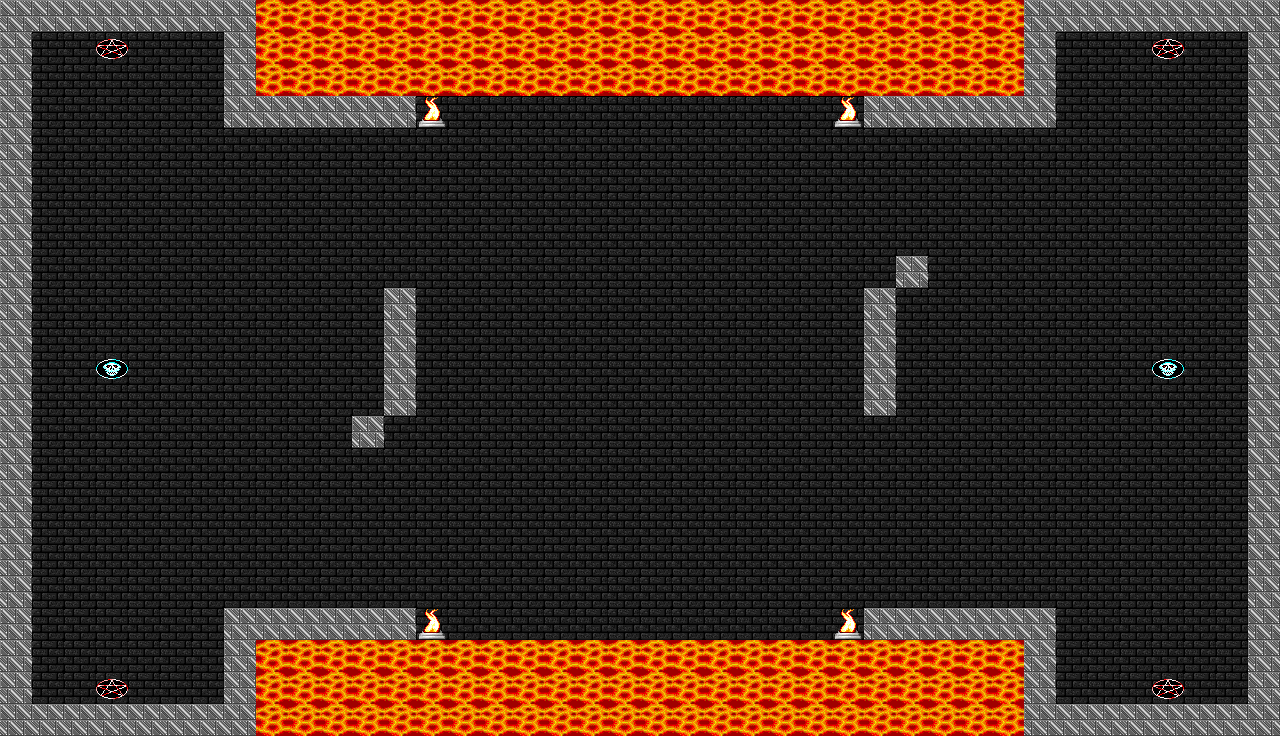
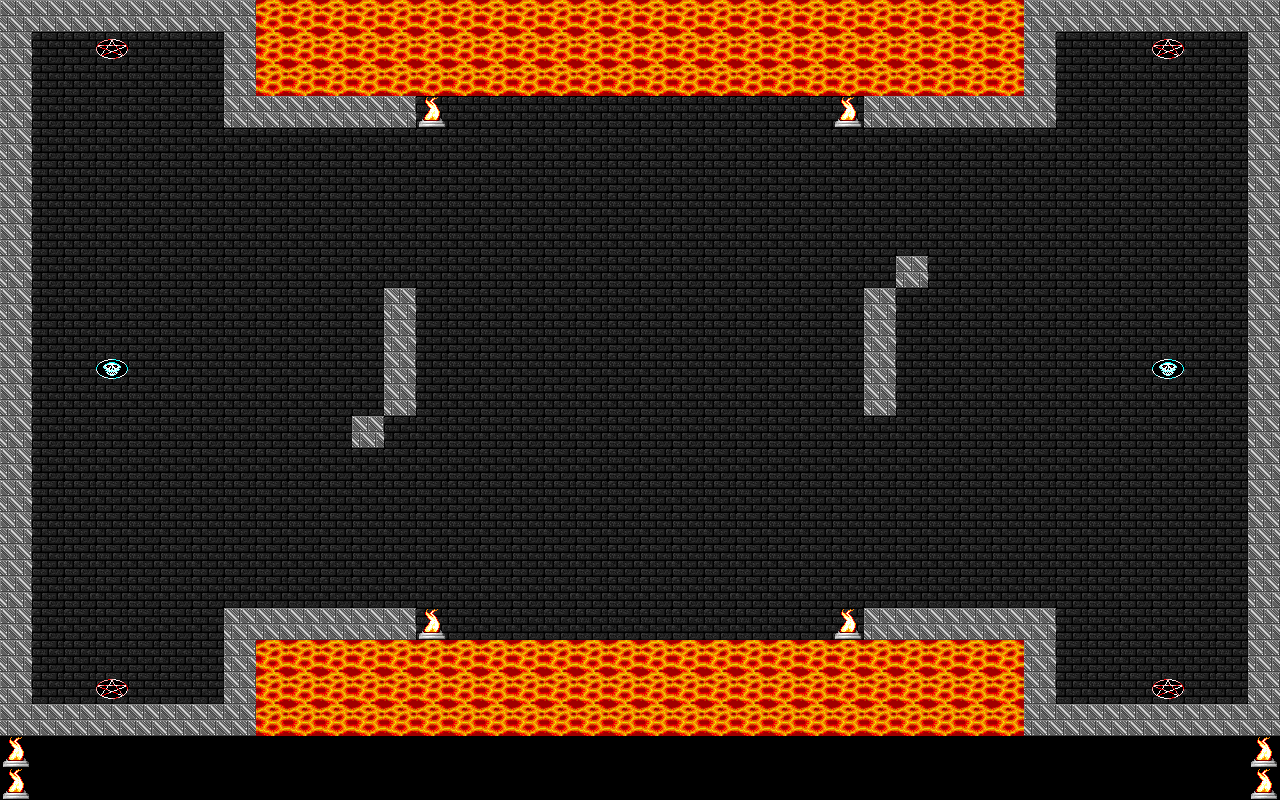
changed map size to support UI

diff --git a/Entry.py b/Entry.py
@@ -5,6 +5,7 @@
 
 """
 	--- TODO ---
+	1.) abstract powerup spawn generation to the Powerup class file
 	1.) MAKE POWERUPS A TIMED EVENT TRIGGER
 	1.) FIX DUNGEON FLOOR TILE THAT DRAWS UNDER POWERUPS
 	1.) main menu
@@ -42,7 +43,7 @@ WHITE = (255, 255, 255)
 """
 # 40 tiles wide, 23 tiles tall
 screen_width = 1280
-screen_height = 736
+screen_height = 800
 # for control of how fast screen updates
 clock = pygame.time.Clock()
 
